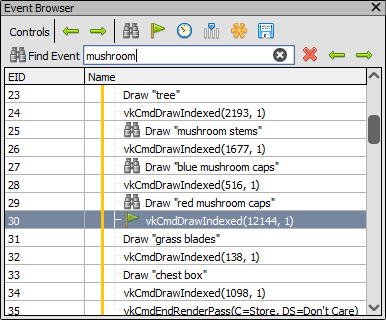
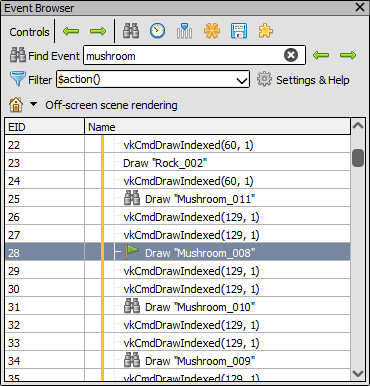
Update documentation for event browser changes

diff --git a/docs/how/how_filter_events.rst b/docs/how/how_filter_events.rst
@@ -1,0 +1,132 @@
+How do I filter visible events?
+===============================
+
+The :doc:`Event Browser window <../window/event_browser>` allows you to browse through the frame by changing the current event, and seeing a list of events in the capture organised into a user-defined hierarchy of markers (for more information on how to provide these markers, see :doc:`how_annotate_capture`).
+
+By default the events which are listed are those known as actions. Draws and dispatches are examples of actions, but also events that modify resources like clears and copies. State setting and other CPU-update calls like Maps are not included and are listed in the :doc:`API Inspector <../window/api_inspector>`.
+
+With event filters you can control which events are displayed, to include or exclude them based on substrings or more complex filters.
+
+Filter Expressions
+------------------
+
+At the most basic level filters act like a search query across all the events in a capture. If several terms are given together:
+
+.. code:: text
+    
+    Draw Clear Copy
+
+This will include any event that matches any one of these terms. For example ``DrawIndexed()`` and ``Draw()`` would both match ``Draw`` and so would be displayed even if they don't match ``Clear`` or ``Copy``. ``Dispatch()`` would be filtered out because it doesn't match any of these terms.
+
+You can also exclude specific terms by prefixing them with a ``-``:
+
+.. code:: text
+    
+    Draw Clear Copy -Depth 
+
+Which will still display ``DrawIndexed()`` and ``Draw()`` as before, as well as for example ``ClearColor()``. However ``ClearDepth()`` would be filtered out because it matches the ``-Depth`` term.
+
+If you don't want to have all terms be optional, you can instead require specific terms:
+
+.. code:: text
+    
+    +Draw +Indexed -Instanced
+
+This requires that events **must** match ``Draw`` and ``Indexed`` and **must not** match ``Instanced``. This means ``DrawIndexed()`` would be displayed because it satisfies all terms, but ``Draw()`` would now be filtered out because although it matches ``Draw`` it does not match ``Indexed``. Similarly ``DrawIndexedInstanced()`` would be filtered out because while it matches both required terms, it also matches the excluded term.
+
+.. warning::
+    If you have some required terms like this then any optional terms are completely ignored. ``+Draw -Instanced`` would match the same events as ``+Draw Dispatch -Instanced``. This is because an event will be included only if it matches the required term and excluded if it doesn't, there's no room for an optional match.
+    
+    This is unlike a more flexible search which can use optional terms to weight some results higher than others, since events are always listed in their explicit order.
+
+Filters can also be nested with parentheses, for example if you wanted to require at least one of several matches:
+
+.. code:: text
+    
+    +Draw +(Indexed Instanced) -Indirect
+
+Which requires that events **must** match ``Draw``, and **must** match at least one of ``Indexed`` or ``Instanced``.
+
+Filter functions
+----------------
+
+The examples above all used simple string matching, which can be enough for many cases but sometimes a more complex query is desired. For this reason there are filter functions, which can query properties with more flexibility.
+
+The default filter is an example of this, the ``$action()`` filter function will match any action - draws, dispatches, copies, clears, etc.
+
+.. figure:: ../imgs/Screenshots/EventsDefaultDisplay.png
+
+	Default Display: The Event browser with the default event filter applied.
+
+The ``$action()`` filter function can also take parameters, for example here we will filter for only actions which are draws with over 1000 indices or vertices:
+
+.. figure:: ../imgs/Screenshots/EventsFiltered1000Indices.png
+
+	Filtered Display: The Event browser with only draws containing more than 1000 indices.
+
+Other filter functions are available, for example ``$parent(...)`` will match events that have a given marker as a parent, so we could filter to only the draws in the scene and not in the off-screen pass:
+
+.. figure:: ../imgs/Screenshots/EventsFilteredParent.png
+
+	Filtered Display: The Event browser with only draws containing more than 1000 indices underneath the 'Render Scene' marker.
+
+Notice how we changed the filter to require both ``$action(numIndices > 1000)`` as well as ``$parent(render scene)``. If we didn't, we would include all draws with 1000 vertices as well as all events under Render Scene - which isn't what we wanted in this case.
+
+.. note::
+
+    As seen above, any marker regions which don't have any included child events (recursively) will be hidden entirely.
+
+There are many other filter functions and it is also possible to register custom filter functions as a python extension, you can explore the available functions and their documentation in the filter settings menu.
+
+Example
+-------
+
+We'll give another real world example of how to selectively include or exclude events. Starting with the same case as above:
+
+.. figure:: ../imgs/Screenshots/EventsDefaultDisplay.png
+
+	Default Display: The Event browser with the default event filter applied.
+
+We want to see when bindings are changed in addition to the draws. To do this we'll add ``Bind`` as an optional term:
+
+.. figure:: ../imgs/Screenshots/EventsFilteredBind.png
+
+	Actions and binds: The filter including binding calls as well as actions.
+
+Now we can see the pipeline and vertex/index buffer binds that happened before the first drawcall. In this case there aren't other binding changes between the later drawcalls visible.
+
+Let's say that we only care about buffer bindings and want to exclude the pipeline bind. We could do this by adding a ``-Pipeline`` term, but we might then have to exclude other types of bindings and that could get tedious. Instead we'll change the bind term to ``(+Bind +Buffer)`` which will only match events that contain ``Bind`` and ``Buffer``. Since the term itself is optional, this still means actions are included.
+
+.. note::
+    This could be accomplished another way such as usuing a regular expression, but for the sake of example we'll do it like this.
+
+.. figure:: ../imgs/Screenshots/EventsFilteredBindBuffer.png
+
+	Actions and binds: The filter narrows to include only buffer binding calls.
+
+Now we can see the buffer binding calls as well as the actions that we wanted. At this point we might find that the markers setting object names are a little too noisy, so we want to exclude them. Since there isn't necessarily a common substring with these object names we can instead exclude all markers by type. Markers are a type of action, so we can match against the action flags containing the flag indicating a set marker.
+
+.. figure:: ../imgs/Screenshots/EventsFilteredBindBufferNoAction.png
+
+	Actions and binds: The final filter, excluding set markers from the previous filters.
+
+Finally we have the filter expression matching only the events we want. We can further include/exclude events as we wish in a similar way, or we could save this filter for later in the settings window if this is a filter we will want to have available regularly.
+
+Filter settings
+---------------
+
+The filter settings window contains an explanation of the current filter and what it matches against, as well as ways to save/load filters, and documentation for the available filter functions.
+
+.. figure:: ../imgs/Screenshots/EventFilterSettingsHelp.png
+
+	Filter settings: The filter settings window, showing the example query above explained.
+
+At the top the filter is editable in the same way as in the main Event Browser, and once parsed it will be highlighted showing each term corresponding to the explanation in the panel below.
+
+.. |save| image:: ../imgs/icons/save.png
+
+The filter can be saved by pressing the |save| Save button. By giving the filter a name you can then re-select this filter in future. Changes to filters are only applied when explicitly saving them here, if you select a filter and edit it then those changes will not be saved.
+
+You can also export or import the whole set of filters here with the save drop-down menu. This will overwrite your current set of filters.
+
+At the bottom there is documentation similar to here about how the filter syntax works and in particular for each of the available filter functions how they work and what parameters they support.

diff --git a/docs/window/event_browser.rst b/docs/window/event_browser.rst
@@ -12,6 +12,61 @@ Doing this is API and platform specific. More information on how to do it can be
 
 The colours of any marker regions provided by these API functions will be used to markup the row for the region as well as showing a bar along the left side of the tree showing which regions an event is in.
 
+Filtering displayed events
+--------------------------
+
+By default the Event Browser only lists actions. Actions are events like draws, dispatches, copies, clears, resolves, and other calls that cause the GPU to do work or can affect memory and resources like textures and buffers. This is sometimes referred to as a drawcall, but the term action is used to be less ambiguous compared to actual rasterization drawing.
+
+Often these are the only events you need to see to browse the frame, but there are cases where you may want to see some state setting calls to see where state is changed. To do this you can change the filter on the event browser from the default to include them.
+
+Filter expressions can be quite complex and are explained in :doc:`../how/how_filter_events`.
+
+The filter expression has a drop-down which allows you to select any of the pre-saved filters, and you can save new filters in the settings window.
+
+Event display
+-------------
+
+Events displayed in the Event Browser are typically derived from the parameters to the API call itself. A small number of events will have custom generated names - these are typically for example indirect draws where it is more useful to see the used GPU draw parameters instead of the raw CPU side buffer, or for renderpasses where the load and store ops can be displayed.
+
+There are controls to tweak these names available under the :menu:`Settings & Help` window when configuring the filter.
+
+To show these options by way of example, take this default display of a section of a captured frame:
+
+.. figure:: ../imgs/Screenshots/EventsDefaultDisplay.png
+
+	Default Display: The Event browser with the default event naming.
+
+| :guilabel:`Show custom action names` Default: ``Enabled``
+
+This option controls whether the custom names are used as detailed above for e.g. indirect draws and renderpasses. Note the effect that disabling it has on the renderpass beginning and command buffer boundary.
+
+.. figure:: ../imgs/Screenshots/EventsNoCustom.png
+
+	Disabled Custom Action Names: The Event browser with custom names disabled.
+
+| :guilabel:`Show parameter names and values` Default: ``Disabled``
+
+This option controls whether the names of parameters are included as well as their values. By default no parameter names are given and only the values are visible.
+
+.. note::
+	This will have no effect on actions with custom names, as controlled above in :guilabel:`Show custom action names`.
+
+.. figure:: ../imgs/Screenshots/EventsParameterNames.png
+
+	Parameter names: The Event browser with parameter names displayed as well as parameter values.
+
+| :guilabel:`Show all parameters` Default: ``Disabled``
+
+This option controls whether all parameters are displayed, or whether only the most significant ones are included. Note that with all parameters displayed it can be hard to make anything out as some functions have uninteresting implicit parameters like the command buffer.
+
+.. note::
+	This does not affect parameter values, which in the case of structures will still only show an elided struct in many cases. Also as above with :guilabel:`Show parameter names and values` this will have no effect on actions with custom names, as controlled above in :guilabel:`Show custom action names`.
+
+.. figure:: ../imgs/Screenshots/EventsAllParameters.png
+
+	All Parameters: A snippet of the Event browser showing all function parameters.
+
+
 Selecting available columns
 ---------------------------
 
@@ -51,9 +106,9 @@ The currently selected event is highlighted and indicated with a green flag |fla
 
 	Current Event: The Event browser showing several sections and the current event.
 
-The EID column indicates the event ID of the action listed. Event IDs are assigned starting from 1 and increase every time an API call is made - for this reason action EIDs are not necessarily contiguous.
+The EID (Event ID) column indicates the ID of the event. Event IDs are assigned starting from 1 and increase every time an API call is made. For this reason action EIDs are usually not contiguous because there are state setting events in between which also have EIDs.
 
-Simply clicking on a different event will select it as current, and selecting a parent node with some child events will act as if the final child is selected - in other words selecting a node with several children will show the results of all children having happened.
+Simply clicking on a different event will select it as current, and selecting an entry with some child events will act as if the final child is selected - in other words selecting a node with several children will show the results of all children having happened.
 
 You can also use keyboard shortcuts to browse through the frame. Pressing up or down arrow key will move up and down through the visible elements, skipping over any sections which are collapsed. These keys will move into and out of a sub-section into the next sibling afterwards - essentially going straight up and down as if there is not a tree and it is a straight list.
 
@@ -87,31 +142,24 @@ There are two other controls available in the Event Browser to aid in navigating
 
 Pressing :kbd:`Ctrl-F` will open the find-event toolbar |find|. This toolbar allows you to type in a partial text filter that will be matched against both labels and action events. The find will be executed when you press enter, although you can then adjust the text and re-search if you wish.
 
+.. tip::
+
+	If you want to go to a particular event you can search for its EID. The find results will only show the matching event, and not any other events which might match that number by substring.
+
 If the event found lies inside an unexpanded section, the sections will be expanded until the matching event is visible.
 
 Matching events will be highlighted with a find icon |find|, and pressing enter repeatedly will jump between matching events.
 
-.. |cross| image:: ../imgs/icons/cross.png
-
-The find toolbar isn't dismissed until you press escape in the text box, or click the close button |cross|.
+The find toolbar isn't dismissed until you press escape in the text box, or click on the find-event tool button |find| again.
 
 .. |arrow_left| image:: ../imgs/icons/arrow_left.png
 .. |arrow_right| image:: ../imgs/icons/arrow_right.png
-
 
 You can also jump up and down between find results with the previous |arrow_left| and next |arrow_right| buttons.
 
 .. figure:: ../imgs/Screenshots/FindResults.png
 
 	Highlighted Results: The results of a find are highlighted with an icon.
-
-Pressing :kbd:`Ctrl-G` will open the jump to EID toolbar. This allows you to type in an EID and jump straight there, expanding nodes as necessary. If the EID typed doesn't exist in the list of actions, the closest matching EID will be jumped to.
-
-When you hit enter to jump to an EID, the toolbar closes and if you wish to jump again you must press :kbd:`Ctrl-G` again
-
-.. figure:: ../imgs/Screenshots/JumpEID.png
-
-	Jumping around: The jump-to-EID toolbar prompting for an event.
 
 See Also
 --------

diff --git a/docs/getting_started/quick_start.rst b/docs/getting_started/quick_start.rst
@@ -89,7 +89,9 @@ More details can be found on the :doc:`../window/event_browser` page.
 
 .. |timeline_marker| image:: ../imgs/icons/timeline_marker.png
 
-The Event Browser is the primary method of stepping through the frame and browsing the events that occurred within. The first column EID (Event ID) indicates which event or API call this was in the frame, chronologically. Events which are listed here are known as actions. Actions are draws and dispatches but also events that modify resources like clears and copies. State setting and other CPU-update calls like Maps are not included and are available in the API Calls view (see below).
+The Event Browser is the primary method of stepping through the frame and browsing the events that occurred within. The first column EID (Event ID) indicates which event or API call this was in the frame, chronologically. 
+
+By default the events which are listed here are those known as actions. Draws and dispatches are examples of actions, but also events that modify resources like clears and copies. State setting and other CPU-update calls like Maps are not included and are available in the API Calls view (see below). You can use the filter field to include or exclude events as you wish, for more information see :doc:`../how/how_filter_events`.
 
 The columns can be customised and reordered, the |timeline_marker| select columns button (or right-click) will allow you to choose which columns are displayed.
 
@@ -101,7 +103,7 @@ Standard performance markers are available and create the hierarchy/labels as yo
 
 The 'current' event - i.e. the event at which we are inspecting the graphics state - is highlighted with a green Flag |flag_green| and the row is highlighted. As any row is selected it immediately becomes the new current event.
 
-While the Event Browser is selected, you can press the shortcut keys :kbd:`CTRL-F` or :kbd:`CTRL-G` to find |find| or jump to a given EID |flag_green| respectively.
+While the Event Browser is selected, you can press the shortcut keys :kbd:`CTRL-F` to find |find| a given event or action. You can enter a number to jump to that given EID.
 
 
 The |asterisk_orange| bookmark button will allow you to bookmark an event, the shortcut key is :kbd:`CTRL-B`.
@@ -119,7 +121,7 @@ API Inspector
 
 More details can be found on the :doc:`../window/api_inspector` page.
 
-The API Calls window updates as a new event is selected. It shows the individual API calls and their parameters between the previous and current event. The bottom entry in this list always corresponds to the event that is currently selected, and each row can be expanded to show the parameters that were passed to that API call.
+The API Calls window updates as a new event is selected. It shows the individual API calls and their parameters. If an action is selected, the list shows all API calls between the previous action and this action and the last entry in this list always corresponds to the action itself. Each row can be expanded to show the parameters that were passed to that API call.
 
 At the bottom of the window is an optional expandable section which shows the callstack (if available and recorded) from the application code into the API function.
 

diff --git a/docs/window/api_inspector.rst b/docs/window/api_inspector.rst
@@ -6,7 +6,9 @@ Although not the most complex part of the RenderDoc's UI, this page details the 
 UI Elements
 -----------
 
-The API Inspector is divided into two sections - the top section is the most common, detailing all of the API calls leading up to and including the current action. The special case for this is the end of the frame where there may not be a final action but the API Inspector lists the API calls that preceded the final flip of the backbuffer that marks the end of RenderDoc's captured frame.
+The API Inspector is divided into two sections - the top section is the most common, detailing the API calls and all of their parameters.
+
+If an action is currently selected in the :doc:`event_browser`, all the API calls between the previous action and this action will be shown - in other words if you select a draw, this may show several state-setting API calls binding shaders or resources before the draw. If an individual event is currently selected then that event's API call will be shown.
 
 The bottom section is less commonly used but shows the callstack from user code into the API entry point, if such a callstack is available and the symbols are resolved. For more information check out the page on :doc:`../how/how_capture_callstack`.
 

diff --git a/docs/how/index.rst b/docs/how/index.rst
@@ -5,6 +5,7 @@ How do I ...?
 
 	how_capture_frame
 	how_android_capture
+	how_filter_events
 	how_debug_shader
 	how_inspect_pixel
 	how_view_texture
